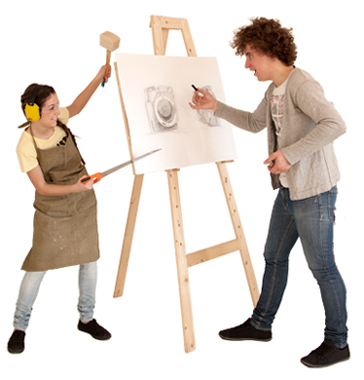
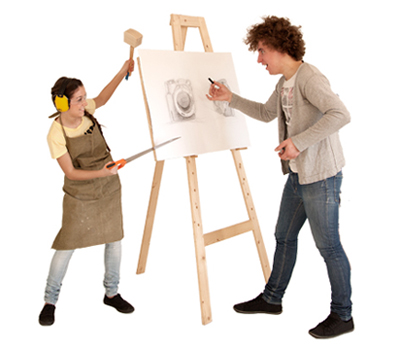
No paddding, margin on home nav, just include needed border in image file as white

diff --git a/style.css b/style.css
@@ -167,7 +167,7 @@ table {
 	background: url('images/footer.png') repeat-x;
 	height: 288px;
 	padding-top: 92px;
-	margin-top: -30px;
+	margin-top: -50px;
 }
 
 footer.page-footer {
@@ -368,7 +368,7 @@ strong {
 /* Content styles few */
 
 .main-content {
-	min-height: 455px; 
+	min-height: 405px; 
 	clear:both; 
 }
 
@@ -486,19 +486,17 @@ strong {
 /* Homepage image accordion menu */
 
 .content-home .aim a {
-	background-position: left top;
-	padding-left: 7px;
-	padding-right: 8px;
+	
 }
 
 .content-home .aim {
 	margin-top: 25px !important;
-	width: 1000px !important; 
-	left: -15px;
+	width: 1005px !important; 
+	left: -30px;
 }
 
 .content-home .aim a, .content-home .aim {
-	height: 450px !important;
+	height: 405px !important;
 	margin-bottom: 5px;
 }
 
@@ -515,7 +513,7 @@ strong {
 	font-size: 1.05em;
 	height: auto;
 	bottom: 15px;
-	left: 7px;
+	left: 8px;
 	text-align: center;
 	width: 175px;
 	margin-top: 50px;

diff --git a/content-home.php b/content-home.php
@@ -15,7 +15,7 @@
   
 	$('div.aim').find('a:nth-child(-n+4)').each(function() {
 		var old_bg = $(this).css('background-image');
-		$(this).css({'background' : 'url("wp-content/themes/hk-wp-mall/images/home-nav-shadow.png") right 35px no-repeat,'+ old_bg + 'no-repeat' });
+		$(this).css({'background' : 'url("wp-content/themes/hk-wp-mall/images/home-nav-shadow.png") right -10px no-repeat,'+ old_bg + 'no-repeat' });
 		
 	});
 	
